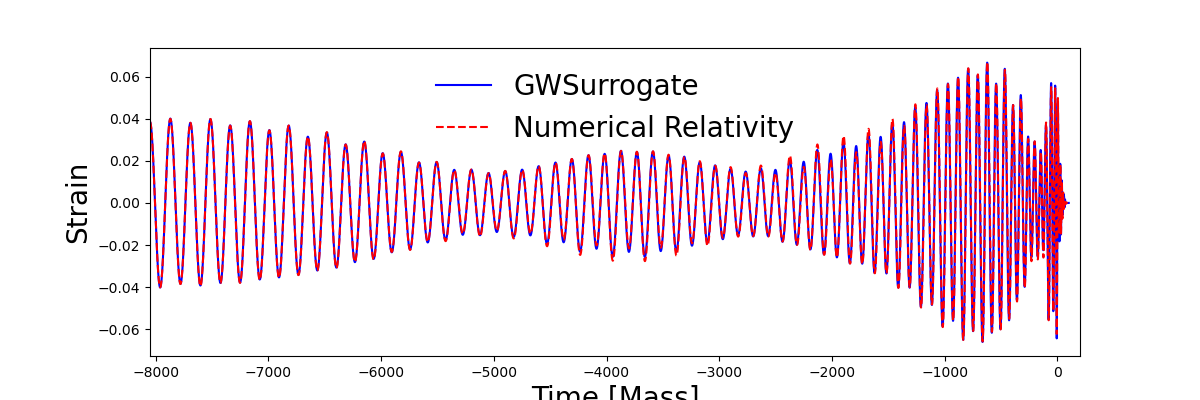
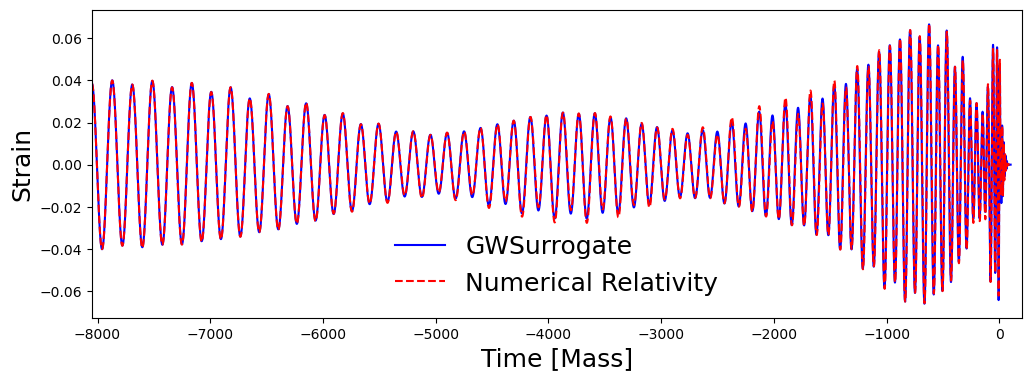
fiddling with the figure

diff --git a/tutorial/paper/figs/plot_gwsur.py b/tutorial/paper/figs/plot_gwsur.py
@@ -12,5 +12,5 @@ P.xlabel('Time [Mass]', fontsize=18)
 P.ylabel('Strain', fontsize=18)
 P.xlim(t[0], 200)
 P.legend(frameon=False,fontsize=18)
-P.savefig('gwsurrogate.png')
+P.savefig('gwsurrogate.png', bbox_inches='tight')
 P.close()

diff --git a/tutorial/paper/paper.md b/tutorial/paper/paper.md
@@ -34,14 +34,14 @@ bibliography: paper.bib
 
 ---
 
-![Example gravitational wave prediction from a surrogate model compared with numerical relativity simulation for a precessing binary black hole. This particular numerical relativity simulation took 70,881 CPU-hours (about 1.75 months using 56 cores on the supercomputer Frontera), while the surrogate model can be evaluated in about 100 milliseconds. \label{fig:gws}](gwsurrogate.png)
+![Example gravitational wave prediction from a surrogate model compared with numerical relativity for a precessing binary black hole. This particular numerical relativity simulation took 70,881 CPU-hours (about 1.75 months using 56 cores on the supercomputer Frontera), while the surrogate model can be evaluated in about 100 milliseconds. \label{fig:gws}](gwsurrogate.png)
 
 # Summary
 
 
 Gravitational waves are ripples in space-time caused by the motion of massive objects. One of the most astrophysically important sources of gravitational radiation is caused by two orbiting compact objects, such as black holes and neutron stars, that slowly inspiral and merge. The motion of these massive objects generates gravitational waves that radiate to the far field where gravitational-wave detectors can observe them. Complicated partial or ordinary differential equations govern the entire process. Traditionally, the dynamics of compact binary systems and the emitted gravitational waves have been computed by expensive simulation codes that can take days to months to run. A key simulation output is the gravitational wave signal for a particular set of parameter values describing the system, such as the black holes' masses and spins.  The computed signal is required for a diverse range of multiple-query applications, such as template bank generation for searches, parameter estimation, mock data analysis, studies of model bias, and tests of general relativity, to name a few. In such settings, the high-fidelity signal computed from differential equations is often too slow to be directly used.
 
-Surrogate models offer a practical way to dramatically accelerate model evaluation while retaining the high-fidelity accuracy of the expensive simulation code; an example is shown in Fig.~\ref{fig:gws}. Surrogate models can be constructed in various ways, but what separates these models from others is that they are primarily data-driven. Given a training set of gravitational waveform data sampling the parameter space, a model is built by following three steps: (i) Feature extraction: the waveform is decomposed into *data pieces* that are simple to model, (ii) Dimensionality reduction: each data piece is approximated by a low-dimensional vector space, which reduces the degrees of freedom we need to model, and (iii) regression techniques are applied to the low-dimensional representation of each data piece over the parameter space defining the model. These model-building steps result in an HDF5 file defining the surrogate model's data and structure, which is stored on Zenodo. The GWSurrogate code provides access to these HDF5 files through its catalog interface, and all available models and their HDF5 files can be found in `gwsurrogate.catalog.list()`. For a recent overview of surrogate modeling as used in gravitational wave astrophysics, please see Section 5 of @LISAConsortiumWaveformWorkingGroup:2023arg.
+Surrogate models offer a practical way to dramatically accelerate model evaluation while retaining the high-fidelity accuracy of the expensive simulation code; an example is shown in Fig.\ref{fig:gws}. Surrogate models can be constructed in various ways, but what separates these models from others is that they are primarily data-driven. Given a training set of gravitational waveform data sampling the parameter space, a model is built by following three steps: (i) Feature extraction: the waveform is decomposed into *data pieces* that are simple to model, (ii) Dimensionality reduction: each data piece is approximated by a low-dimensional vector space, which reduces the degrees of freedom we need to model, and (iii) regression techniques are applied to the low-dimensional representation of each data piece over the parameter space defining the model. These model-building steps result in an HDF5 file defining the surrogate model's data and structure, which is stored on Zenodo. The GWSurrogate code provides access to these HDF5 files through its catalog interface, and all available models and their HDF5 files can be found in `gwsurrogate.catalog.list()`. For a recent overview of surrogate modeling as used in gravitational wave astrophysics, please see Section 5 of @LISAConsortiumWaveformWorkingGroup:2023arg.
 
 The development of ``GWSurrogate`` is hosted on [GitHub](https://github.com/sxs-collaboration/gwsurrogate) and distributed through both [PyPI](https://pypi.org/project/gwsurrogate/) and [Conda](https://anaconda.org/conda-forge/gwsurrogate/). Quick start guides are found on the project's [homepage](https://github.com/sxs-collaboration/gwsurrogate) while model-specific documentation is described through a collection of model-specific [Jupyter notebooks](https://github.com/sxs-collaboration/gwsurrogate/tree/master/tutorial). Automated testing is run on [GitHub Actions](https://github.com/sxs-collaboration/gwsurrogate/actions).
 
@@ -53,7 +53,7 @@ using the methods described in (ADD CITATIONS HERE). More specifically, ``GWSurr
 $$
  h_{\tt S}(t, \theta, \phi;\Lambda) = \sum^{\infty}_{\ell=2} \sum_{m=-\ell}^{\ell} h_{\tt S}^{\ell m}(t;\Lambda) ~^{-2}Y_{\ell m}(\theta, \phi) \,,
 $$
-where $^{-2}Y_{\ell m}$ are the spin$=-2$ weighted spherical harmonics and $\Lambda$ describes the model's parameterization. The surrogate model provides fast evaluations for the modes, $h_{\tt S}^{\ell m}$. As described more fully in the documentation, the high-level API allows users direct access to the modes $\{h_{\tt S}^{\ell m}(t)\}$ (as a Python dictionary) or assembles the sum $h_{\tt S}(t, \theta, \phi)$ at a particular location $(\theta, \phi)$. The models implemented in ``GWSurrogate`` are intended to be used in production data analysis efforts. As such, computationally expensive operations (e.g., interpolation onto uniform time grids) are implemented by wrapping low-level C code for speed, whereas ``GWSurrogate`` provides a user-friendly interface to the high-level waveform evaluation API. Models implemented in ``GWSurrogate`` follow the waveform convention choices of the LIGO-Virgo-Kagra collaboration, thus ensuring that downstream data analysis codes can use ``GWSurrogate`` models without needing to worry about different conventions. ``GWSurrogate`` models can be directly evaluated in either physical units (often used in data analysis studies) and dimensionless units (often used in theoretical studies) where all dimensioned quantities are expressed in terms of the system's total mass. 
+where $^{-2}Y_{\ell m}$ are the spin$=-2$ weighted spherical harmonics and $\Lambda$ describes the model's parameterization. The surrogate model provides fast evaluations for the modes, $h_{\tt S}^{\ell m}$. As described more fully in the documentation, the high-level API allows users direct access to the modes $\{h_{\tt S}^{\ell m}(t)\}$ (as a Python dictionary) or assembles the sum $h_{\tt S}(t, \theta, \phi)$ at a particular location $(\theta, \phi)$. The models implemented in ``GWSurrogate`` are intended to be used in production data analysis efforts. As such, (i) computationally expensive operations (e.g., interpolation onto uniform time grids) are implemented by wrapping low-level C code for speed, whereas ``GWSurrogate`` provides a user-friendly interface to the high-level waveform evaluation API, (ii) models implemented in ``GWSurrogate`` follow the waveform convention choices of the LIGO-Virgo-Kagra collaboration, thus ensuring that downstream data analysis codes can use ``GWSurrogate`` models without needing to worry about different conventions, and (iii) ``GWSurrogate`` models can be directly evaluated in either physical units (often used in data analysis studies) and dimensionless units (often used in theoretical studies) where all dimensioned quantities are expressed in terms of the system's total mass. 
 
 
 # Acknowledgements
